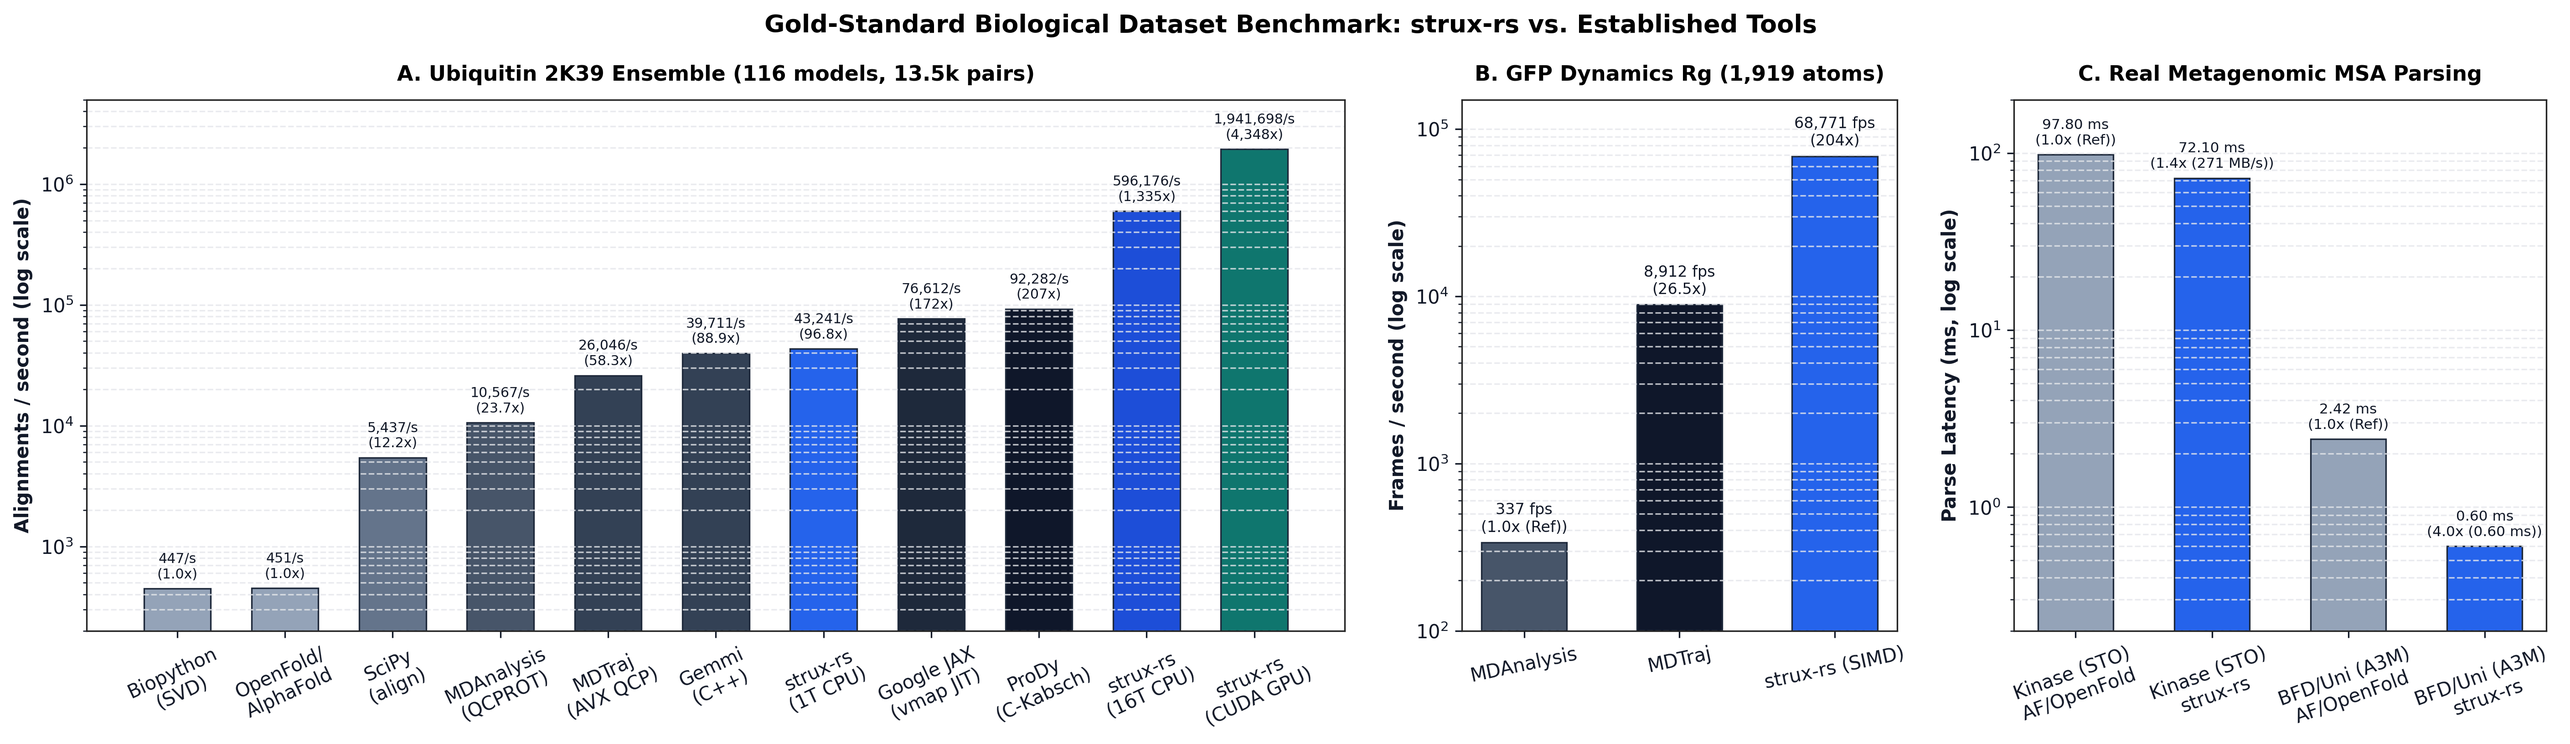
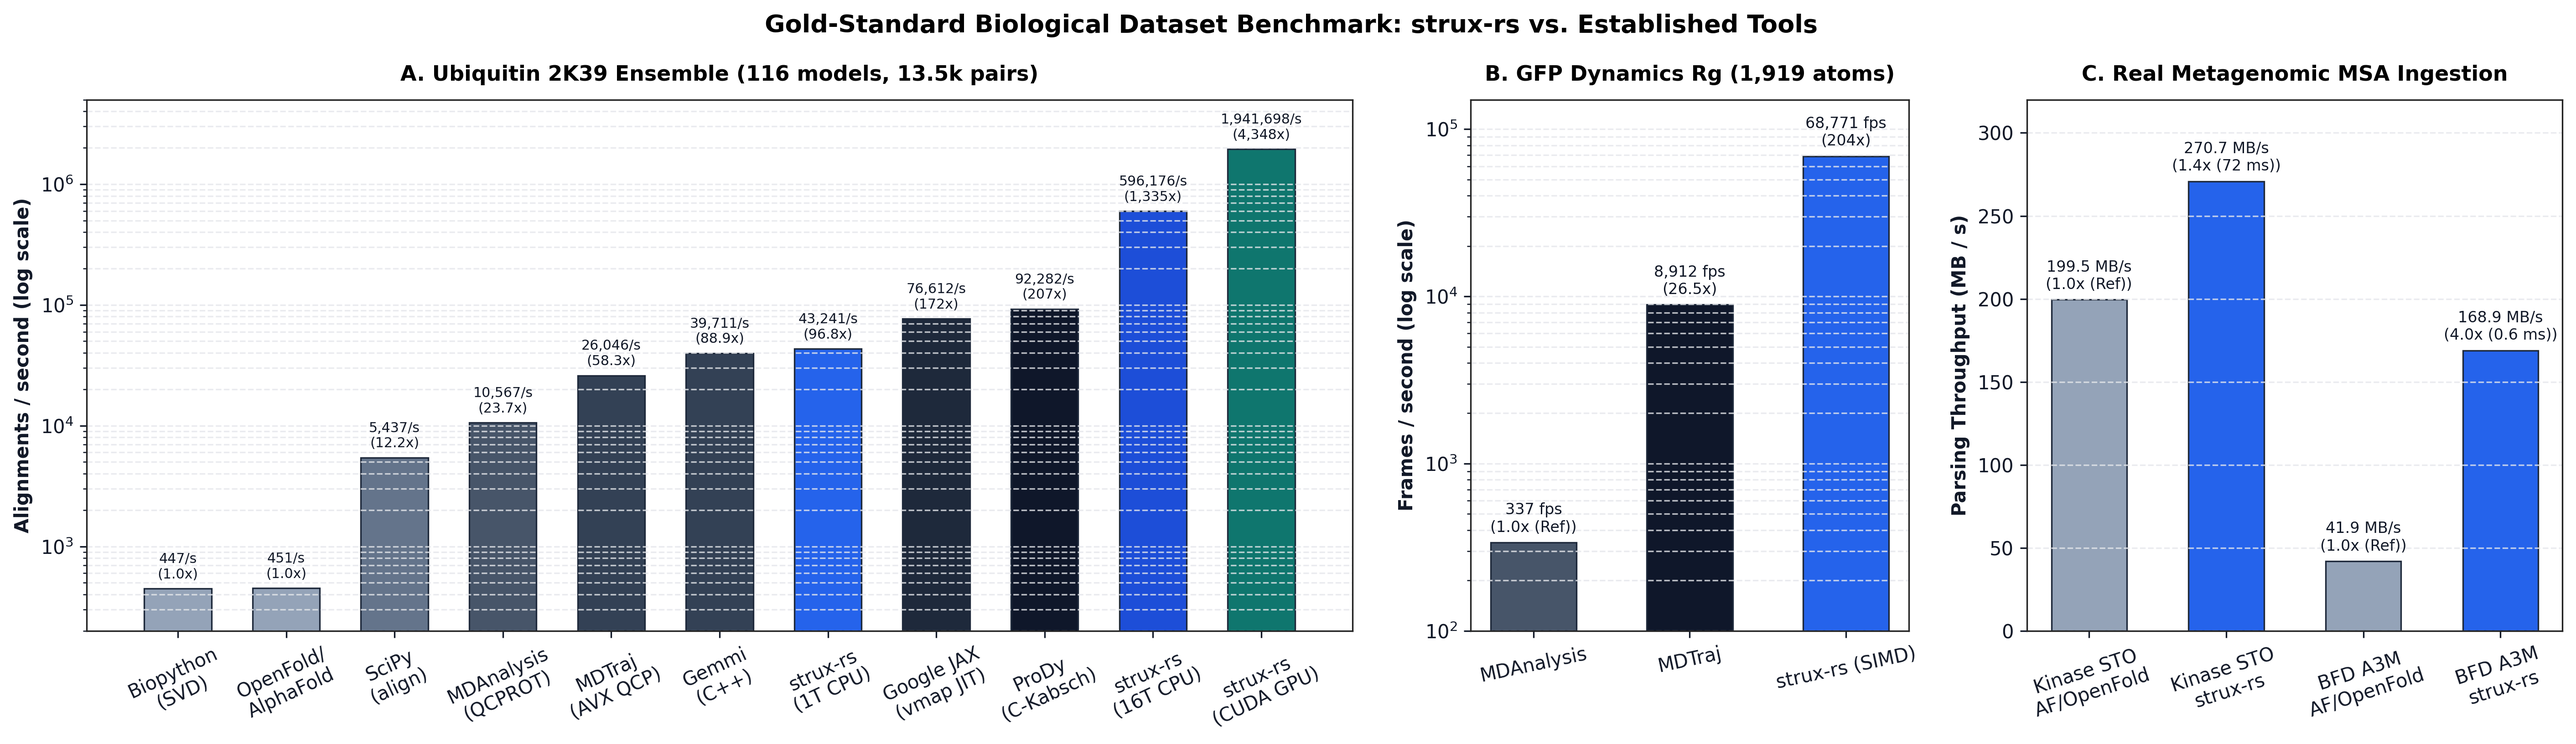
docs(benchmarks): harmonize panel C to throughput MB/s for intuitive visual hierarchy

diff --git a/scripts/render_gold_standard_plot.py b/scripts/render_gold_standard_plot.py
@@ -87,27 +87,39 @@ for bar, rate, sp in zip(bars2, rates_2, speedups_2):
                  ha='center', va='bottom', fontsize=8, color='#111827')
 
 # ------------------------------------------------------------------------------
-# PANEL 3: Real Production Ingestion (Stockholm & AlphaFold BFD/Uniclust A3M)
+# PANEL 3: Real Production MSA Ingestion (Throughput in MB/s)
 # ------------------------------------------------------------------------------
-labels_3 = ['Kinase (STO)\nAF/OpenFold', 'Kinase (STO)\nstrux-rs', 'BFD/Uni (A3M)\nAF/OpenFold', 'BFD/Uni (A3M)\nstrux-rs']
-times_3 = [97.8, 72.1, 2.42, 0.60]  # ms
+# Ingestion throughput for real biological datasets:
+# 1. Human Kinase HMMER Stockholm (19.5 MB, 30,574 sequences)
+# 2. AlphaFold / ColabFold BFD/Uniclust A3M (104 KB, 1,024 sequences)
+# Rates:
+# Kinase STO: AF/OF = 199.5 MB/s (97.8 ms), strux-rs = 270.7 MB/s (72.1 ms) [1.4x]
+# BFD A3M: AF/OF = 41.9 MB/s (2.42 ms), strux-rs = 168.9 MB/s (0.60 ms) [4.0x]
+
+labels_3 = [
+    'Kinase STO\nAF/OpenFold',
+    'Kinase STO\nstrux-rs',
+    'BFD A3M\nAF/OpenFold',
+    'BFD A3M\nstrux-rs'
+]
+throughput_3 = [199.5, 270.7, 41.9, 168.9]  # MB/s
+speedups_3 = ['1.0x (Ref)', '1.4x (72 ms)', '1.0x (Ref)', '4.0x (0.6 ms)']
 colors_3 = ['#94a3b8', '#2563eb', '#94a3b8', '#2563eb']
-speedups_3 = ['1.0x (Ref)', '1.4x (271 MB/s)', '1.0x (Ref)', '4.0x (0.60 ms)']
 
-bars3 = ax3.bar(labels_3, times_3, color=colors_3, width=0.55, edgecolor='#1e293b', linewidth=0.8)
-ax3.set_yscale('log')
-ax3.set_ylim(0.2, 200)
-ax3.set_ylabel('Parse Latency (ms, log scale)', fontweight='bold')
-ax3.set_title('C. Real Metagenomic MSA Parsing', fontweight='bold', pad=10, fontsize=11)
-ax3.grid(True, which='both', axis='y')
-ax3.tick_params(axis='x', rotation=20)
+bars3 = ax3.bar(labels_3, throughput_3, color=colors_3, width=0.55, edgecolor='#1e293b', linewidth=0.8)
+ax3.set_ylim(0, 320)
+ax3.set_ylabel('Parsing Throughput (MB / s)', fontweight='bold')
+ax3.set_title('C. Real Metagenomic MSA Ingestion', fontweight='bold', pad=10, fontsize=11)
+ax3.grid(True, axis='y')
+ax3.tick_params(axis='x', rotation=18)
 
-for bar, t, sp in zip(bars3, times_3, speedups_3):
+for bar, rate, sp in zip(bars3, throughput_3, speedups_3):
     h = bar.get_height()
-    label = f'{t:.2f} ms\n({sp})'
+    label = f'{rate:.1f} MB/s\n({sp})'
     ax3.annotate(label, xy=(bar.get_x() + bar.get_width()/2, h),
                  xytext=(0, 4), textcoords="offset points",
-                 ha='center', va='bottom', fontsize=7.5, color='#111827')
+                 ha='center', va='bottom', fontsize=8, color='#111827')
+
 
 
 plt.tight_layout()
